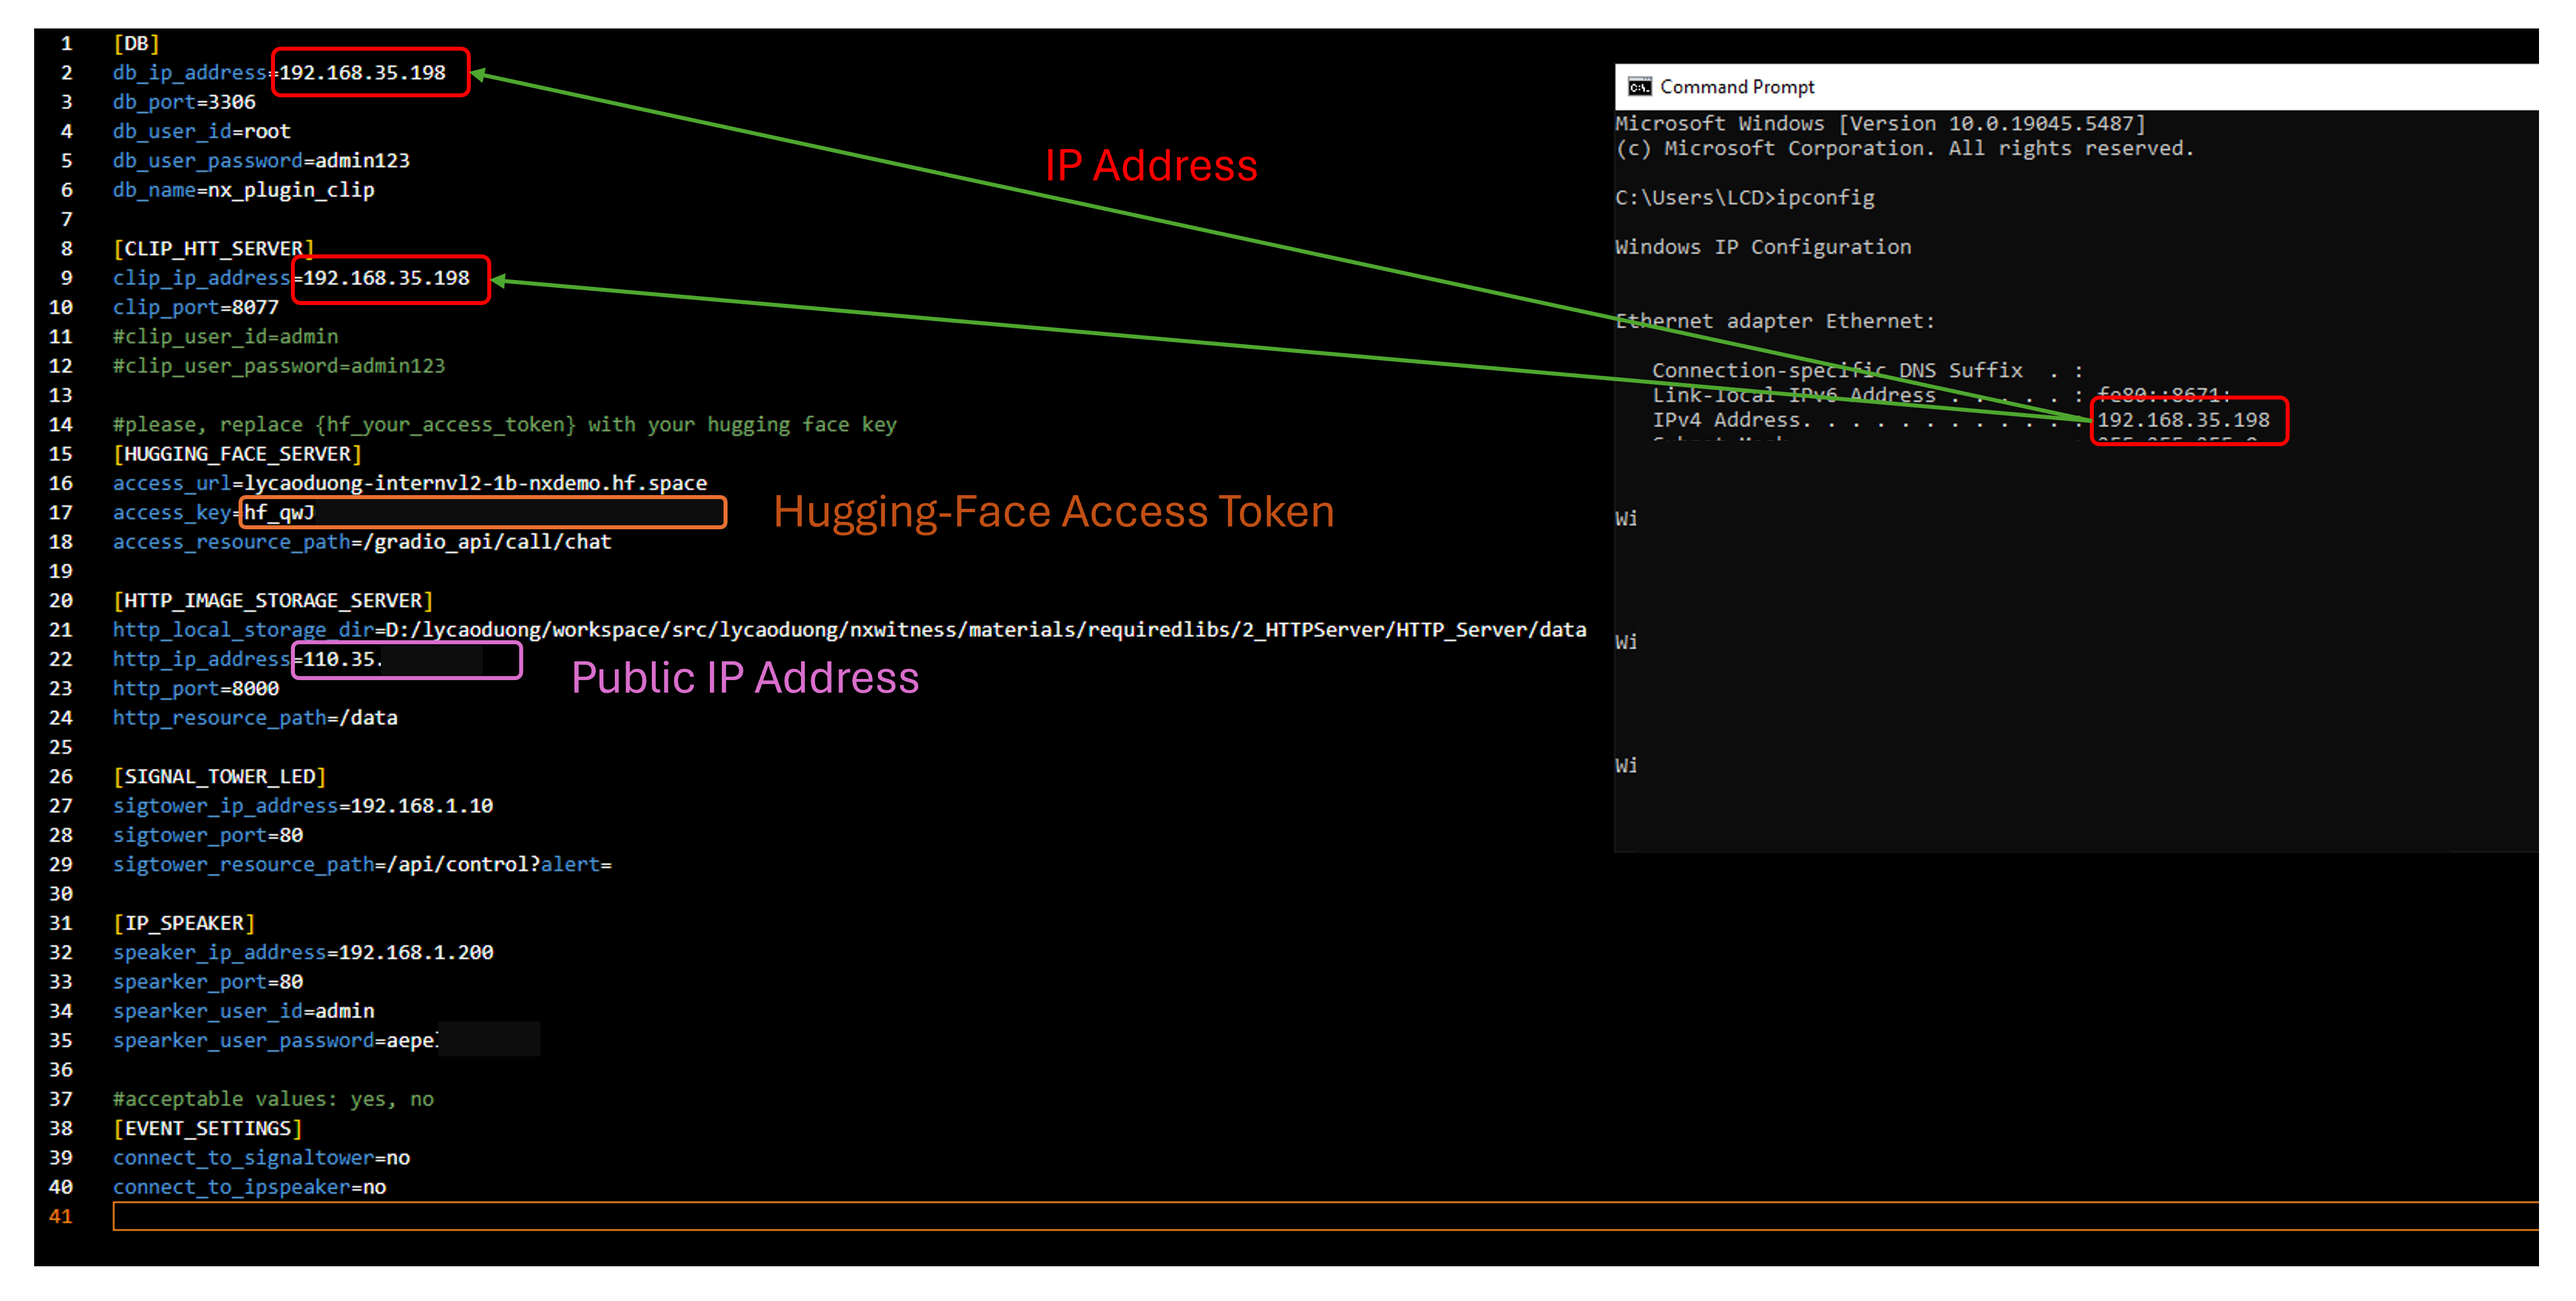
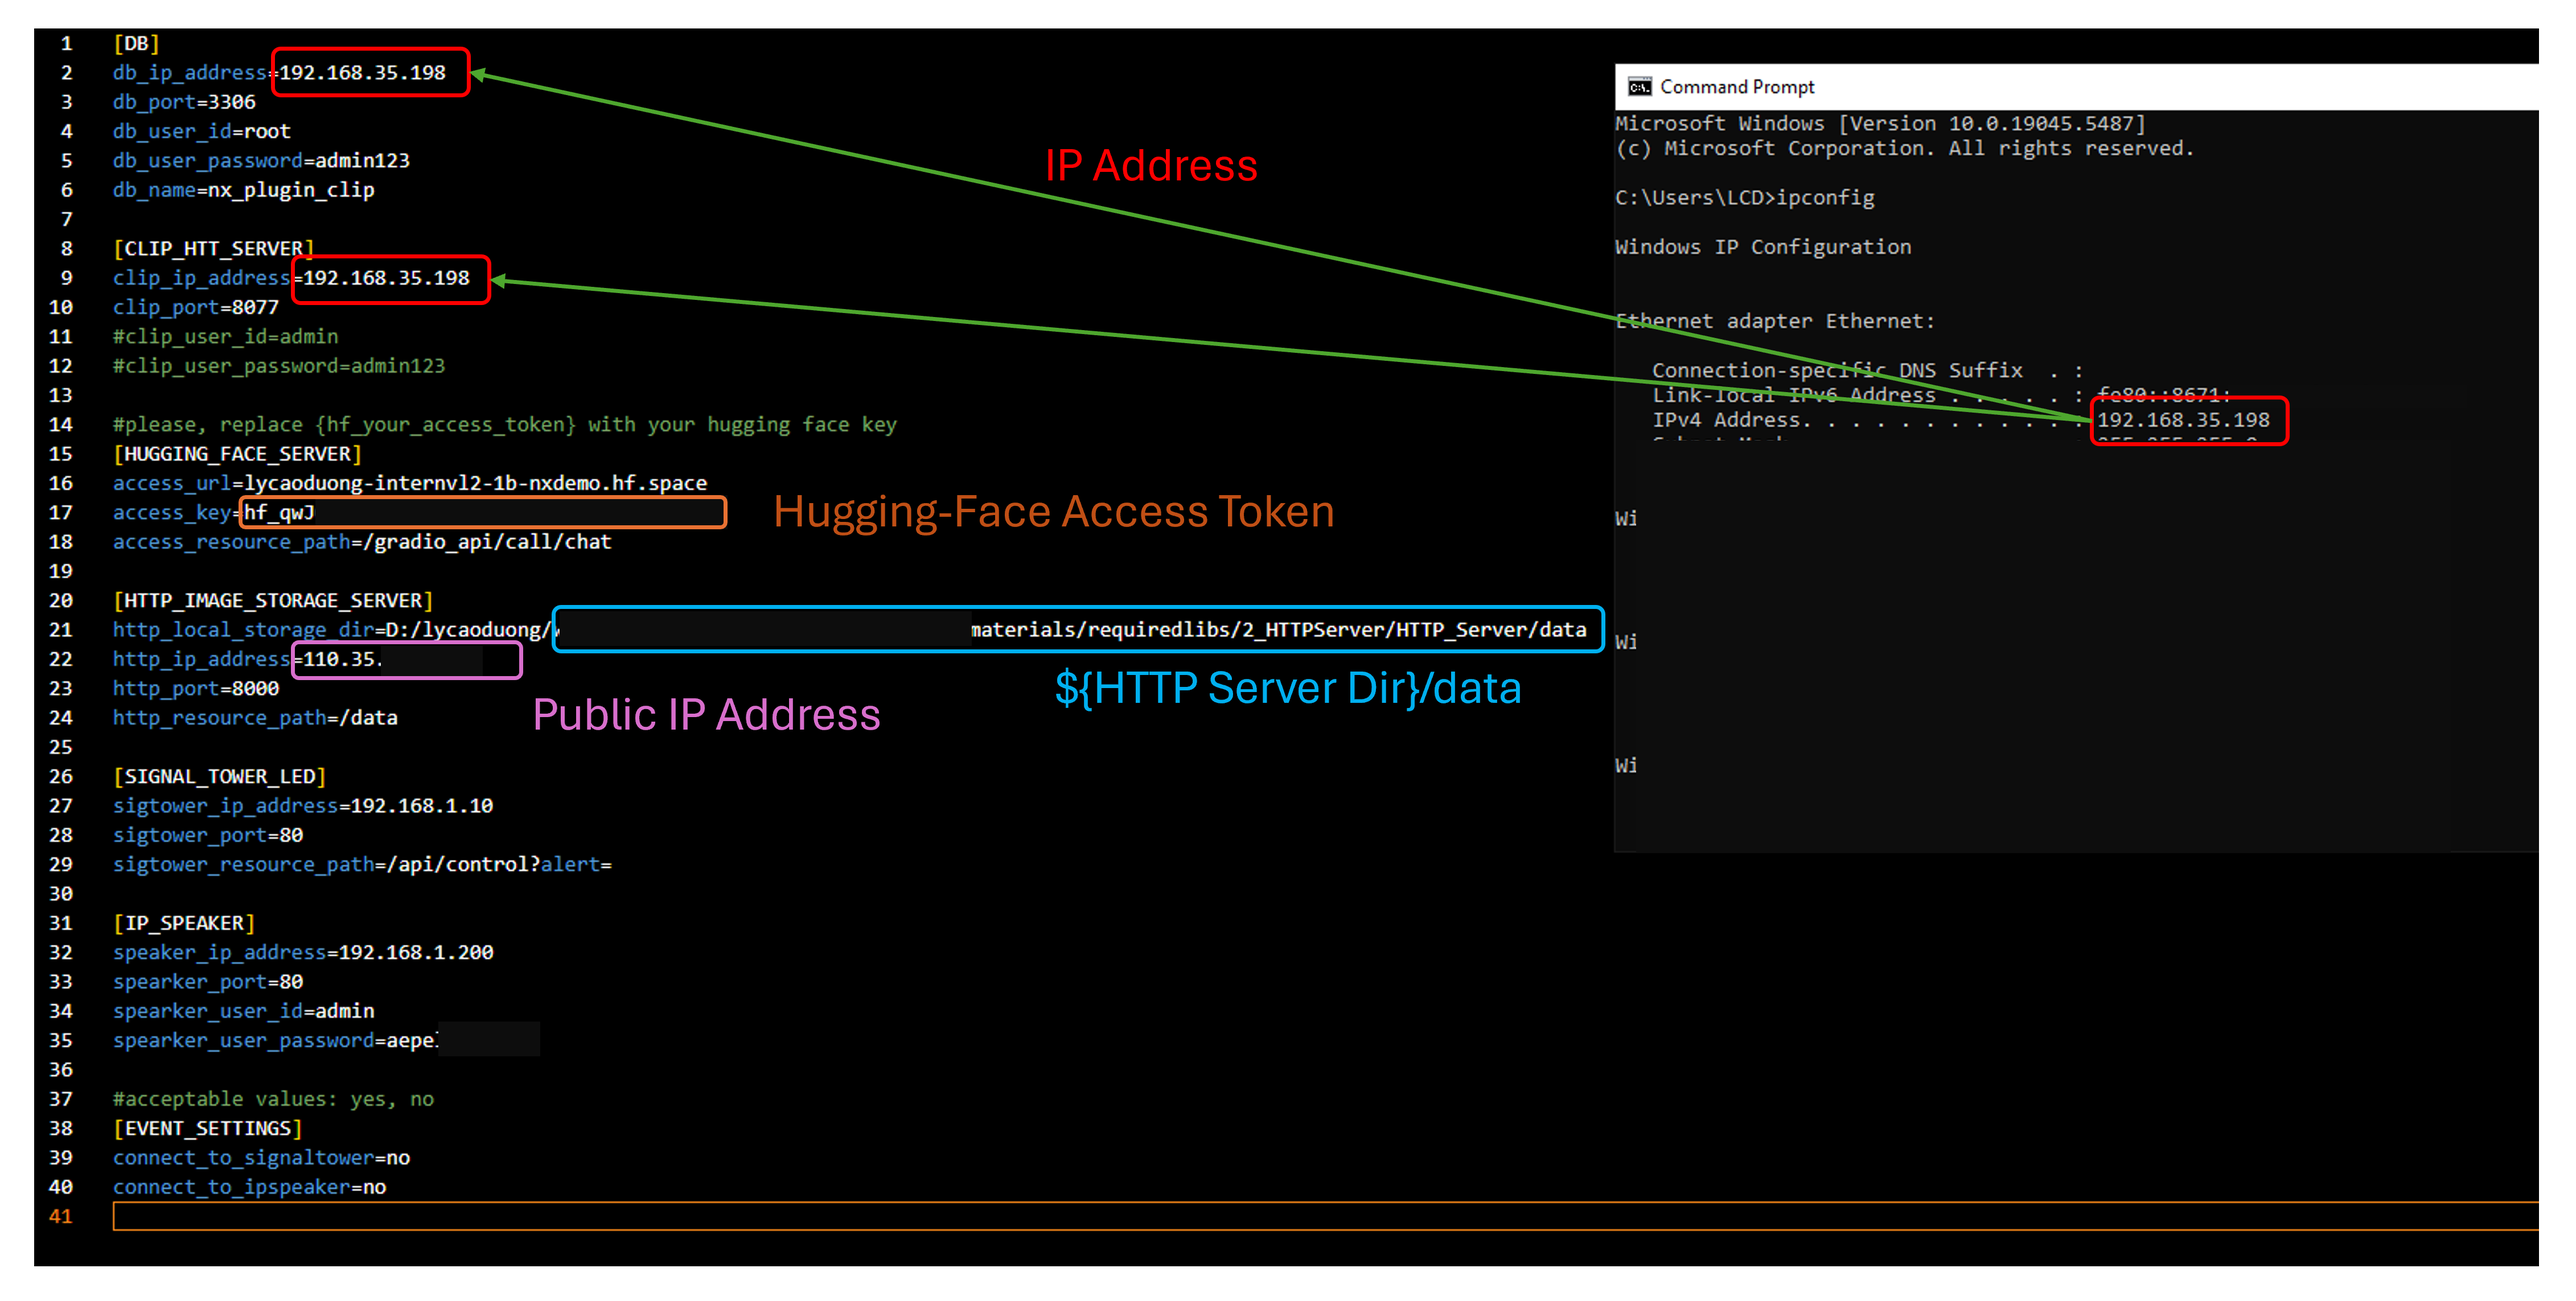
Updated configuration INI file

Changed region(s): [[0.2181, 0.4659, 0.3739, 0.5591], [0.4051, 0.4969, 0.592, 0.5591], [0.592, 0.4659, 0.6232, 0.4969]]

diff --git a/README.md b/README.md
@@ -123,10 +123,28 @@ Ensure you have the following libraries and tools installed before proceeding:
     ``` bash
     ipconfig
   - Set the Database Server IP in nx_plugin_clip.ini to match your Server IP.
+      ``` bash
+    db_ip_address={Your IP Address}
+    db_port=3306
+    db_user_id=root
+    db_user_password=admin123
+    db_name=nx_plugin_clip
   - Set the CLIP-Textual Server IP in nx_plugin_clip.ini to match your Server IP.
+    ``` bash
+    db_ip_address={Your IP Address}
+    clip_port=8077
   - Configure the Hugging Face access token in nx_plugin_clip.ini.
+    ```
+    access_url=lycaoduong-internvl2-1b-nxdemo.hf.space
+    access_key={Your access Token: hf_xxx}
+    access_resource_path=/gradio_api/call/chat
+  - Configure the HTTP Server Image Storage Directory
   - Forward the HTTP Image Storage Server port and set your public IP address to allow Hugging Face Space to access stored data.
-
+      ```
+    http_local_storage_dir=${HTTP Image Server Dir}/data
+    http_ip_address={Your Public IP address: 210.xxx}
+    http_port=8000
+    http_resource_path=/data
   <div align="center">
     <img src="./images/1_ini.PNG" alt="Step 1" style="padding-left: 20px;"/>
   </div>
